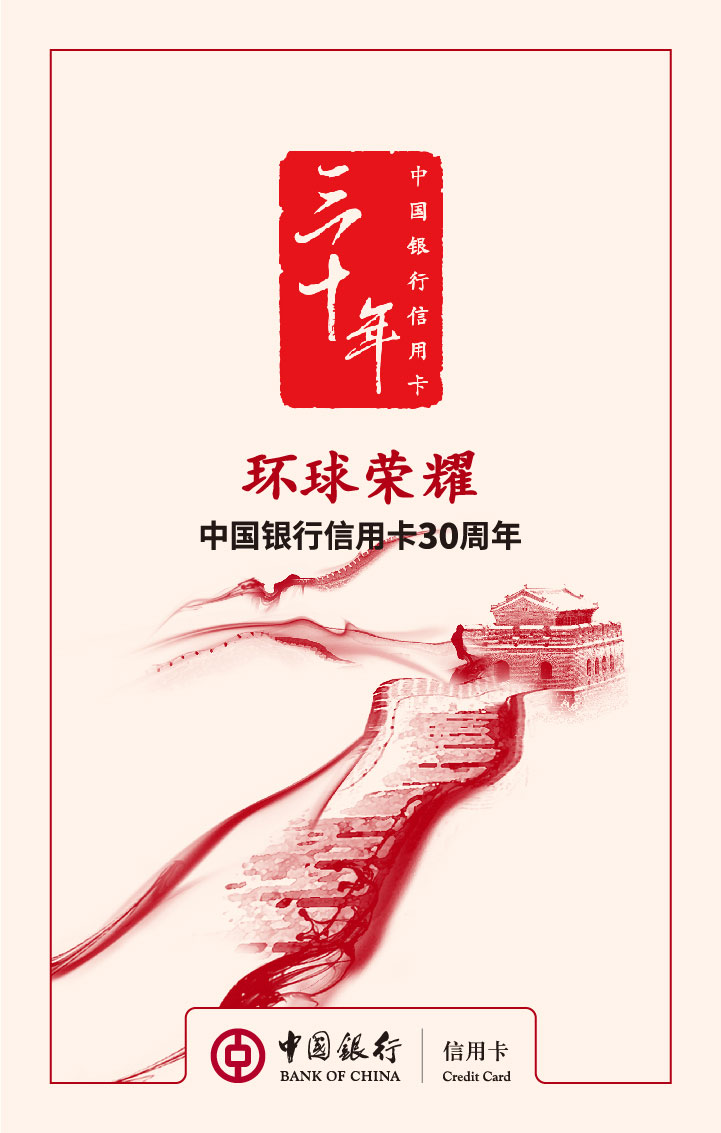
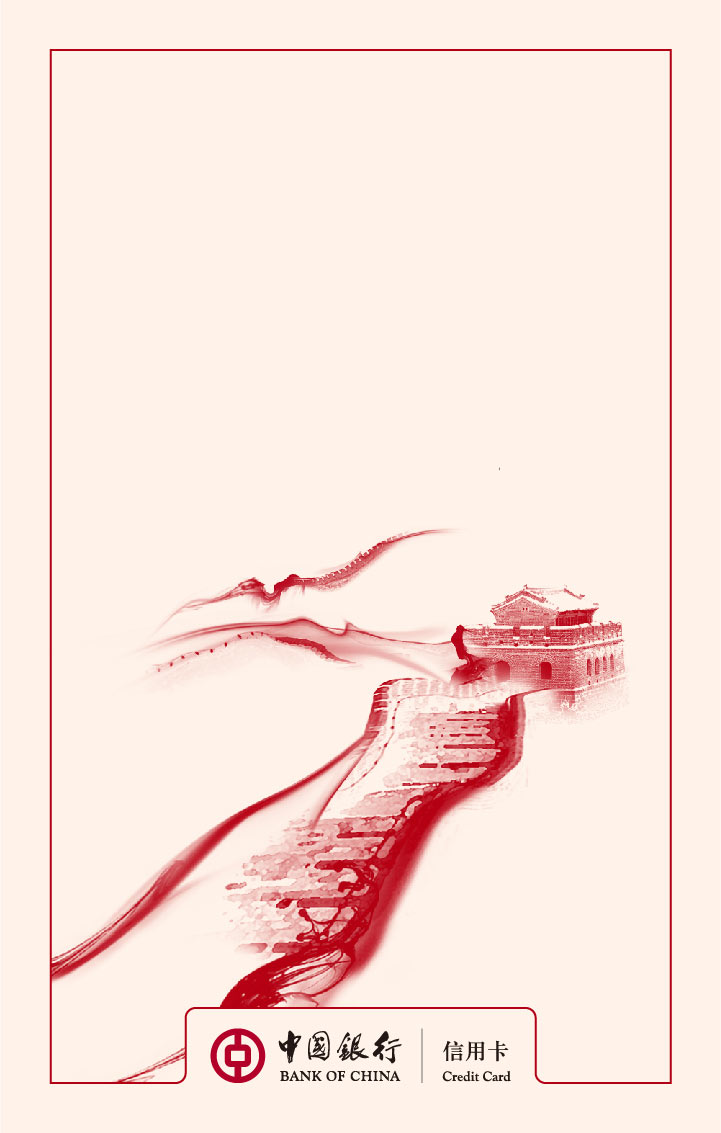
update

diff --git a/xyk/index.html b/xyk/index.html
@@ -1,8 +1,12 @@
 <!DOCTYPE html>
 <html>
 <head>
-<meta name="viewport" content="width=device-width,height=device-height, initial-scale=1.0, maximum-scale=1,user-scalable=no"/>
 <meta charset="utf-8">
+<meta name="viewport" content="width=device-width,initial-scale=1.0,maximum-scale=1.0,minimum-scale=1.0,user-scalable=no">
+<meta name="format-detection" content="telephone=no" />
+<meta name="apple-mobile-web-app-capable" content="yes" />
+<meta name="apple-mobile-web-app-status-bar-style" content="black">
+<meta http-equiv="pragma" content="no-cache" />
 <link rel="stylesheet" href="css/screen.css" type="text/css" media="all"/>
 <link rel="stylesheet" href="css/rain.css" type="text/css" media="all"/>
 <style type="text/css">
@@ -46,6 +50,7 @@
     50% {-webkit-transform: scale(1.1,1.1); transform: scale(1.1, 1.1);}
     100% {-webkit-transform: scale(1,1); transform: scale(1,1);}
 }
+.shinianimg{ top: 40px; opacity: 0.2; -webkit-opacity:0.2;}
 </style>
 </head>
 <body class="body">
@@ -98,7 +103,9 @@
                                 </a>
                                 <img src="images/item7_2.jpg" width="280" class="j_img7_2 imgbottom img7_2 posa" />
 		</div>
-		<div class="j_item-8 item-8 slideitem posr tac oh"> 
+		<div class="j_item-8 item-8 slideitem posr tac oh">
+            <img src="images/bg10.jpg" width="100%" class="j_img8 img8" />
+            <img src="images/shinianlogo.png" width="140" class="j_shinian shinianimg posa" />
 		</div> 
 	</div>
 </div>
@@ -106,7 +113,7 @@
 <script type="text/javascript">
 var init = function(){
     window.w = window.screen.width;
-    window.h = window.screen.height;  
+    window.h = window.screen.height;
     $(".itemwrap").css({"height": 10*h +"px"});  
     $(".slideitem").css({"height": h +"px"}); 
     $('.j_logo').css({
@@ -150,6 +157,9 @@ var init = function(){
     });
     $('.j_img8_2').css({
         "left": w/2 - 140+"px"
+    });
+    $('.j_shinian').css({
+        "left": w/2 - 70+"px"
     });
 }
 
@@ -208,8 +218,9 @@ var screenslide = new screenslide({
                             }
                             if(i===7){
                                 screenslide.slide7 = false;
-                                $(".j_img8_1").addClass("imgzoom");
-                                screenslide.slide7 = true;
+                                $(".j_shinian").velocity({"opacity":'1'},500,function(){
+                                    screenslide.slide7 = true; 
+                                });
                             }
 	},
 	downCallback: function(){
@@ -263,8 +274,9 @@ var screenslide = new screenslide({
                             }
                             if(i===7){
                                 screenslide.slide7 = false;
-                                $(".j_img8_1").addClass("imgzoom");
-                                screenslide.slide7 = true;
+                                $(".j_shinian").velocity({"opacity":'1'},500,function(){
+                                    screenslide.slide7 = true; 
+                                });
                             }
 	}
 }); 
@@ -313,7 +325,7 @@ screenslide.animatereset6= function(){
     $(".j_img7_1").removeClass("imgzoom");
 }
 screenslide.animatereset7= function(){ 
-    $(".j_img8_1").removeClass("imgzoom");
+    $(".j_shinian").css({"opacity":'0'});
 }
 </script>
 </body>
